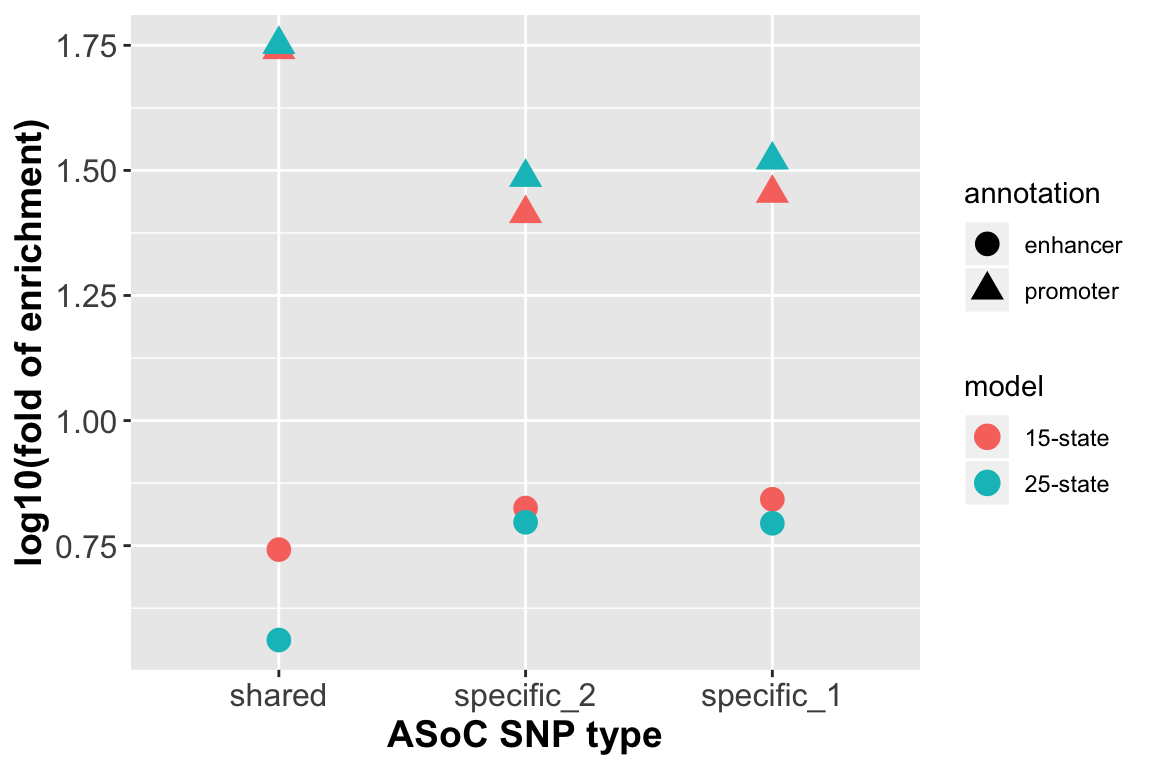
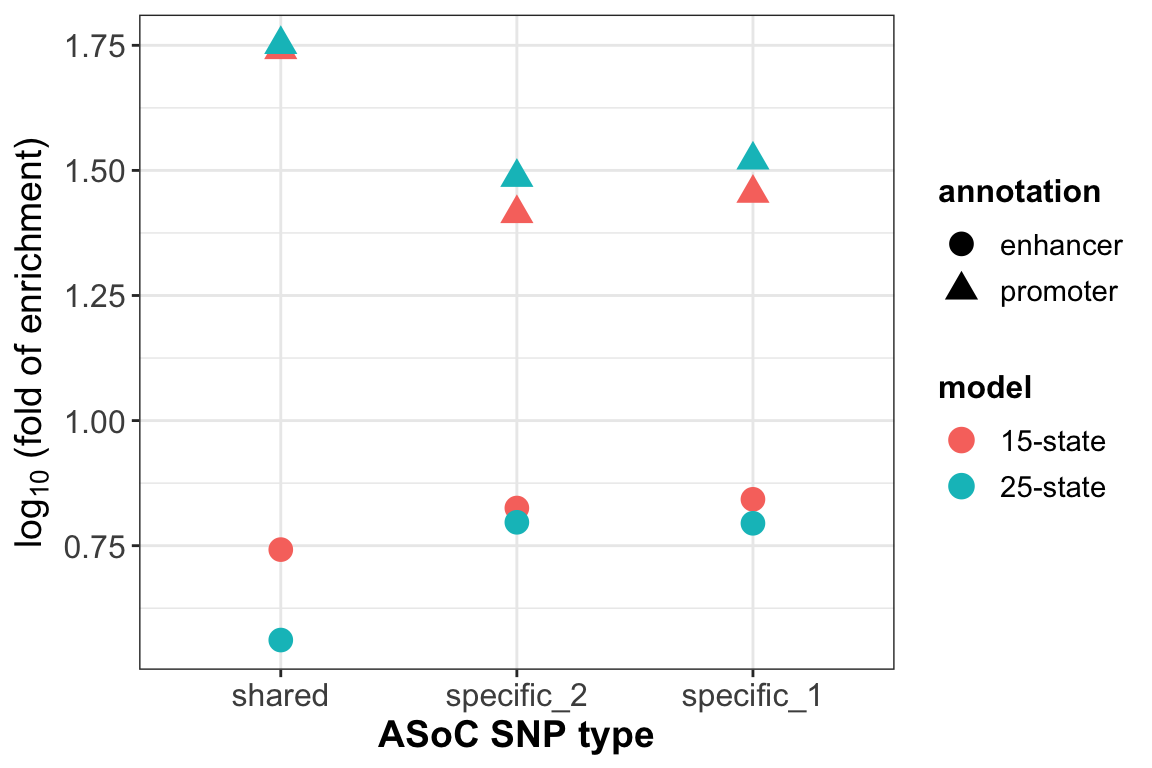
ignore

diff --git a/ASoC_genomic_elements.enrich.html b/ASoC_genomic_elements.enrich.html
@@ -422,7 +422,7 @@ library(ggplot2)
 library(knitr)
 library(kableExtra)
 options(stringsAsFactors = F)</code></pre>
-<p>Baesed on ASoC SNPs identified in each neuronal cell type (NSC,CN,DN and GA), we have the following hypothesis that cell-type-specific ASoC SNPs are highly enriched in enhancers as oppose to ASoC SNPs shared among several cell types.</p>
+<p>Based on ASoC SNPs identified in each neuronal cell type (NSC,CN,DN and GA), we have the following hypothesis that cell-type-specific ASoC SNPs are more enriched in enhancers than ASoC SNPs shared among several cell types.</p>
 <p>To test this hypothesis, we first obtain chromatin state annotation imputed from the Roadmap Epigenomics Project <a href="https://egg2.wustl.edu/roadmap/web_portal/">here</a>. To match our neuronal cell types under early development, we pick a matching tissue type: E081 (Fetal Brain Male). We conduct our analysis using both the 15-state model and the 25-state model.</p>
 <ul>
 <li><p>Under the 15-state model, we define a region to be enhancer if its chromatin state belongs to 6 or 7, and promoter if its chromatin state belongs to 1 or 2.</p></li>
@@ -840,28 +840,42 @@ log10(fold_enrich)
 fold.df2 &lt;- rbind(fold.shared25,fold.spec_new25,fold.spec25)
 fold.ggplot &lt;- data.frame(snp.type = 
                           rep(c(&#39;shared&#39;,&#39;specific_2&#39;,&#39;specific_1&#39;),time = 4))
-fold.ggplot$fold &lt;- c(fold.df1$enhancer,fold.df1$promoter,
+fold.ggplot$log10_fold &lt;- c(fold.df1$enhancer,fold.df1$promoter,
                       fold.df2$enhancer,fold.df2$promoter)
 fold.ggplot$annotation &lt;- factor(rep(c(&#39;enhancer&#39;,&#39;promoter&#39;,
                                 &#39;enhancer&#39;,&#39;promoter&#39;),each = 3))
 fold.ggplot$model &lt;- factor(rep(c(&#39;15-state&#39;,&#39;25-state&#39;),each = 6))
 fold.ggplot$snp.type &lt;- factor(fold.ggplot$snp.type,
                                levels = c(&#39;shared&#39;,&#39;specific_2&#39;,&#39;specific_1&#39;))
-ggplot(data = fold.ggplot, aes(x=snp.type,y=fold, color=model, shape=annotation)) +
-  geom_point(size = 4) + labs(x = &#39;ASoC SNP type&#39;,y = &#39;log10(fold of enrichment)&#39;) +
-  theme(axis.text=element_text(size=12),axis.title=element_text(size=14,face=&quot;bold&quot;))</code></pre>
+ggplot(data = fold.ggplot, aes(x=snp.type,y=log10_fold, color=model, shape=annotation)) +
+  geom_point(size = 4) + labs(x = &#39;ASoC SNP type&#39;,y = expression(log[10]*&#39; (fold of enrichment)&#39;)) + 
+  theme_bw() +
+  theme(axis.text=element_text(size=12),axis.title=element_text(size=14,face=&quot;bold&quot;),
+        legend.text = element_text(size = 11), legend.title = element_text(size = 12,face = &#39;bold&#39;))</code></pre>
 <p><img src="Figs/unnamed-chunk-10-1.png" width="576" style="display: block; margin: auto;" /></p>
-<p>Formal plot for the paper:</p>
+<p>Formal plot for the paper, using only the 25-state annotation model and the new definition of ASoC SNP cell-type specificity (specific-2):</p>
 <pre class="r"><code>fold.25 &lt;- fold.ggplot[c(7,8,10,11),]
 fold.25$snp.type &lt;- as.character(fold.25$snp.type)
 fold.25$snp.type[c(2,4)] &lt;- &#39;specific&#39;
 fold.25$snp.type &lt;- factor(fold.25$snp.type)
-ggplot(data = fold.25, aes(x=snp.type, y=fold, color=annotation, shape=annotation)) +
-  geom_point(size = 4) + theme_bw() +
-  labs(x = &#39;ASoC SNP type&#39;,y = expression(&#39;log&#39;[10]*&#39; (fold of enrichment)&#39;)) +
+fold.25$log2_fold &lt;- log2(10^fold.25$log10_fold)
+# fold.25$fold &lt;- 10^fold.25$log10_fold
+
+ggplot(data = fold.25, aes(x=snp.type, y=log2_fold, fill=annotation)) +
+  geom_bar(stat=&quot;identity&quot;, position = &#39;dodge&#39;) + theme_classic() +
+  labs(x = &#39;ASoC SNP type&#39;,y = expression(log[2]*&#39; (fold of enrichment)&#39;)) +
   theme(axis.text=element_text(size=12),axis.title=element_text(size=14),
         legend.text = element_text(size = 11), legend.title = element_text(size = 12,face = &#39;bold&#39;))</code></pre>
 <p><img src="Figs/unnamed-chunk-11-1.png" width="576" style="display: block; margin: auto;" /></p>
+<p>Plotting the percentage of SNPs in enhancer/promoter regions for the shared/cell-type-specific case:</p>
+<pre class="r"><code>fold.25$percentage &lt;- c(43/256,646/2237,158/256,749/2237)
+
+ggplot(data = fold.25, aes(x=snp.type, y=percentage, fill=annotation)) +
+  geom_bar(stat=&quot;identity&quot;, position = &#39;dodge&#39;) + theme_classic() +
+  labs(x = &#39;ASoC SNP type&#39;,y = &#39;% of SNPs in annotation&#39;) +
+  theme(axis.text=element_text(size=12),axis.title=element_text(size=14),
+        legend.text = element_text(size = 11), legend.title = element_text(size = 12,face = &#39;bold&#39;))</code></pre>
+<p><img src="Figs/unnamed-chunk-12-1.png" width="576" style="display: block; margin: auto;" /></p>
 </div>
 
 
